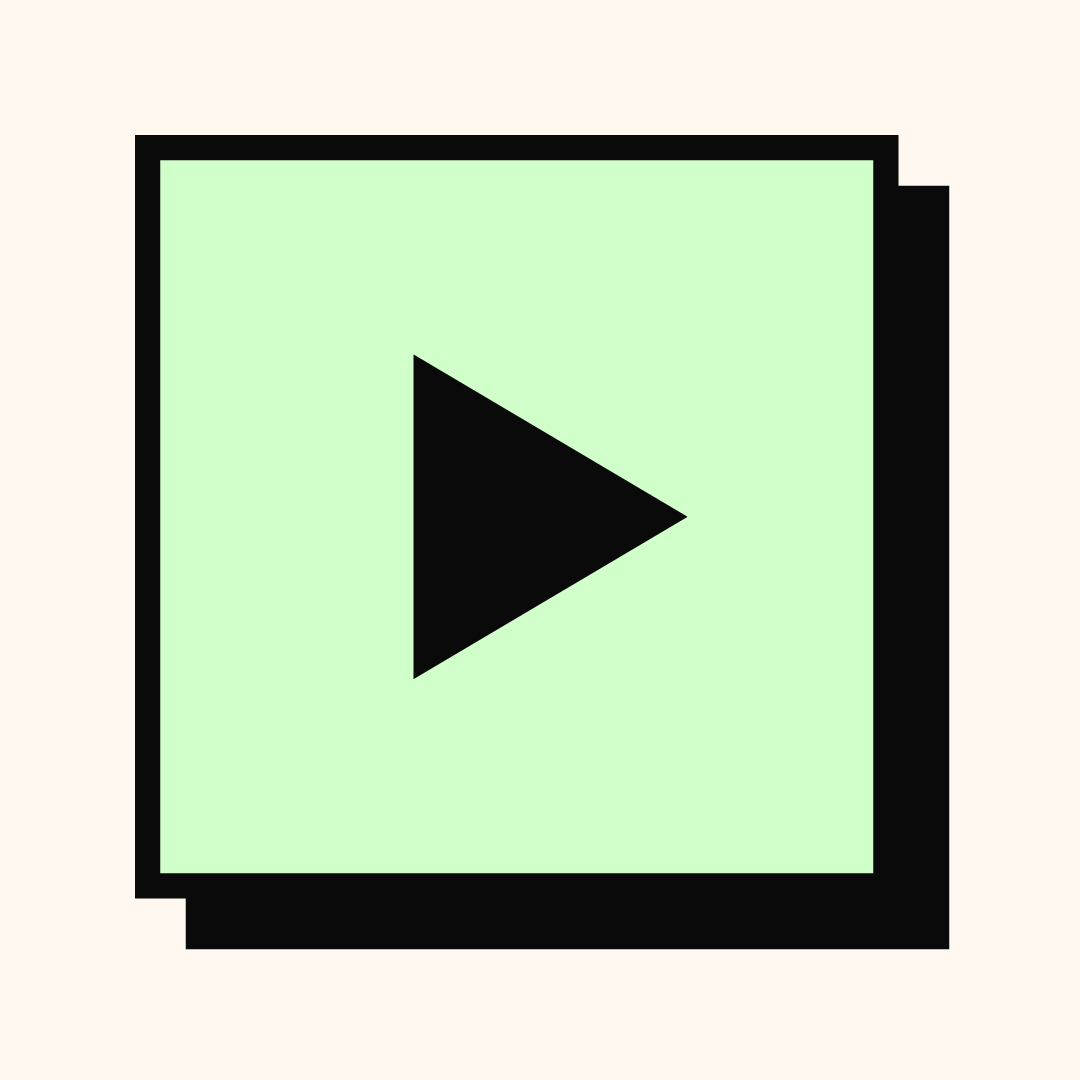
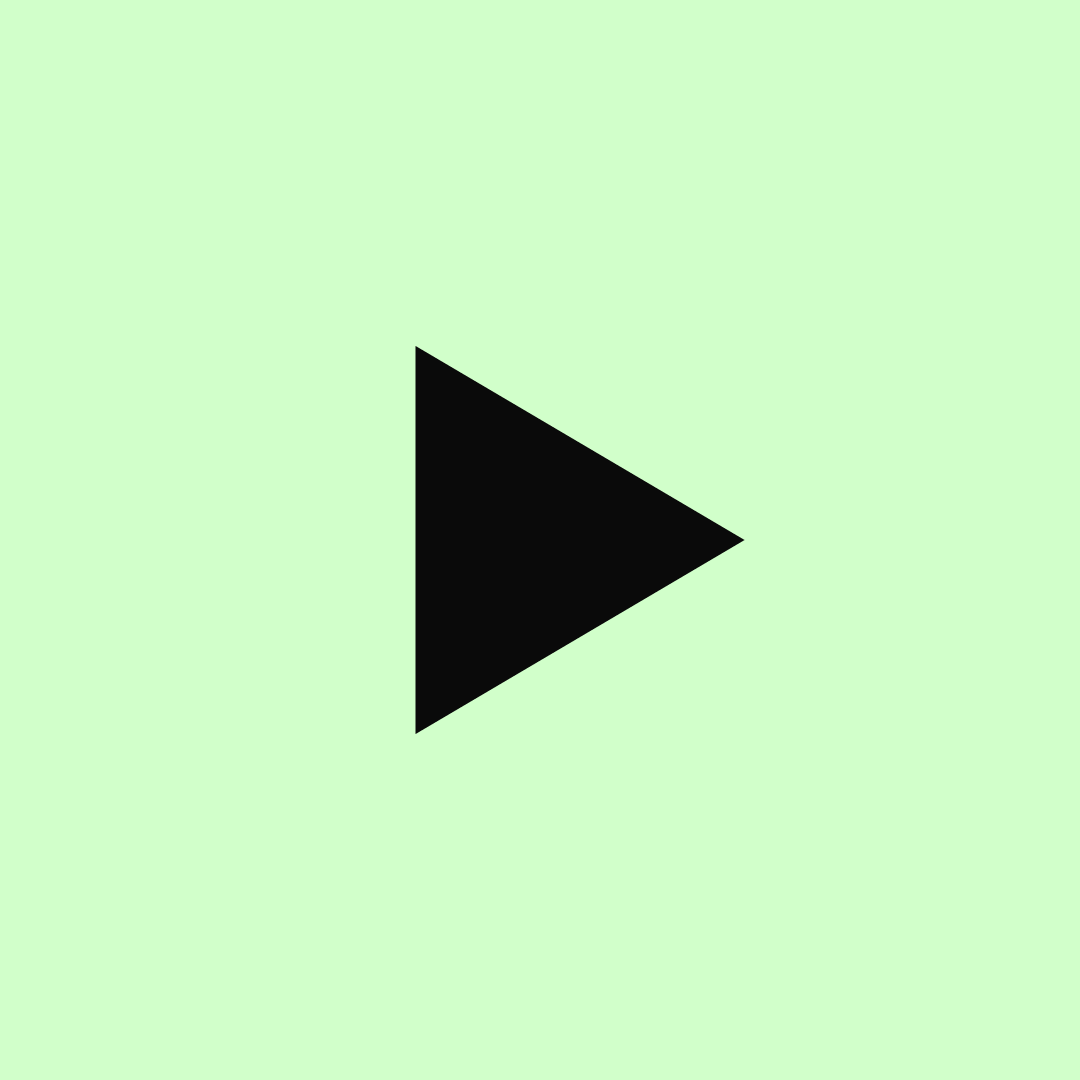
1

diff --git a/apps/video/src/compositions/LowerThird.tsx b/apps/video/src/compositions/LowerThird.tsx
@@ -1,17 +1,23 @@
 import { AbsoluteFill, interpolate, useCurrentFrame, useVideoConfig } from 'remotion'
 
-import { color, ease, font } from '../brand'
+import { color, ease, font, rose, roseDark } from '../brand'
 import { Background, type BackgroundKind } from '../components/Background'
 import { Card } from '../components/Card'
 
 export type LowerThirdProps = {
   title: string
   subtitle: string
-  fill: 'mint' | 'rest' | 'sheet'
+  fill: 'mint' | 'rest' | 'sheet' | 'rose'
   background: BackgroundKind
 }
 
 const clamp = { extrapolateLeft: 'clamp', extrapolateRight: 'clamp' } as const
+
+// Розовая плашка — акцент тёмной розовой темы приложения; на нём читается только тёмный текст
+const palette = (fill: LowerThirdProps['fill']) =>
+  fill === 'rose'
+    ? { fill: roseDark.blue, text: rose.ink, ink: rose.ink }
+    : { fill: color[fill], text: color.ink, ink: color.ink }
 
 // Плашка поверх своего видео. Низ кадра ~250px перекрывает интерфейс Instagram — стоим выше
 export const LowerThird = ({ title, subtitle, fill, background }: LowerThirdProps) => {
@@ -22,17 +28,19 @@ export const LowerThird = ({ title, subtitle, fill, background }: LowerThirdProp
   const sub = interpolate(frame, [6, 20], [0, 1], { easing: ease.enter, ...clamp })
   const exit = interpolate(frame, [durationInFrames - 12, durationInFrames], [0, 1], { easing: ease.exit, ...clamp })
   const x = (p: number) => `${(p - 1) * 120}% 0`
+  const tone = palette(fill)
 
   return (
-    <AbsoluteFill>
+    <AbsoluteFill from={-26}>
       <Background kind={background} />
       <div style={{ position: 'absolute', left: width * 0.06, bottom: height * 0.22, maxWidth: width * 0.82 }}>
         <div style={{ translate: x(enter - exit) }}>
           <Card
-            fill={color[fill]}
+            fill={tone.fill}
+            ink={tone.ink}
             style={{ padding: `${width * 0.026}px ${width * 0.034}px` }}
           >
-            <div style={{ fontFamily: font.sans, fontWeight: 600, fontSize: width * 0.05, lineHeight: 1.15, color: color.ink }}>
+            <div style={{ fontFamily: font.sans, fontWeight: 600, fontSize: width * 0.05, lineHeight: 1.15, color: tone.text }}>
               {title}
             </div>
             {subtitle && (
@@ -42,7 +50,7 @@ export const LowerThird = ({ title, subtitle, fill, background }: LowerThirdProp
                   fontSize: width * 0.034,
                   lineHeight: 1.3,
                   marginTop: width * 0.01,
-                  color: color.ink,
+                  color: tone.text,
                   opacity: 0.7 * sub,
                 }}
               >

diff --git a/apps/video/src/Root.tsx b/apps/video/src/Root.tsx
@@ -1,4 +1,4 @@
-import { Composition } from 'remotion'
+import { type CalculateMetadataFunction, Composition } from 'remotion'
 
 import { formats } from './brand'
 import './fonts'
@@ -7,6 +7,14 @@ import { LowerThird, type LowerThirdProps } from './compositions/LowerThird'
 import { NumberCard, type NumberCardProps } from './compositions/NumberCard'
 
 const { reels, post, square } = formats
+
+// Оверлей: кнопка Render в Studio сразу предлагает ProRes 4444 с альфой, а не MP4 с чёрным фоном
+const overlay: CalculateMetadataFunction<LowerThirdProps> = async () => ({
+  defaultCodec: 'prores',
+  defaultProResProfile: '4444',
+  defaultPixelFormat: 'yuva444p10le',
+  defaultVideoImageFormat: 'png',
+})
 
 export const Root = () => (
   <>
@@ -47,11 +55,27 @@ export const Root = () => (
       component={LowerThird}
       durationInFrames={150}
       {...reels}
+      calculateMetadata={overlay}
       defaultProps={
         {
           title: 'Жим гантелей на наклонной',
           subtitle: '4 подхода × 10 повторов',
           fill: 'mint',
+          background: 'transparent',
+        } satisfies LowerThirdProps
+      }
+    />
+    <Composition
+      id='LowerThird-Rose-Reels'
+      component={LowerThird}
+      durationInFrames={150}
+      {...reels}
+      calculateMetadata={overlay}
+      defaultProps={
+        {
+          title: 'Жим гантелей на наклонной',
+          subtitle: '4 подхода × 10 повторов',
+          fill: 'rose',
           background: 'transparent',
         } satisfies LowerThirdProps
       }

diff --git a/apps/video/src/components/Card.tsx b/apps/video/src/components/Card.tsx
@@ -5,18 +5,20 @@ import { color, lift, line } from '../brand'
 type Props = {
   children: ReactNode
   fill?: string
+  /** Цвет обводки и тени; в розовой расцветке — её чернила */
+  ink?: string
   /** 0 — на месте, 1 — вдавлена в тень */
   press?: number
   style?: CSSProperties
 }
 
 // Плитка приложения: чёрная обводка и жёсткая тень вправо-вниз без размытия
-export const Card = ({ children, fill = color.mint, press = 0, style }: Props) => (
+export const Card = ({ children, fill = color.mint, ink = color.ink, press = 0, style }: Props) => (
   <div
     style={{
       background: fill,
-      border: `${line}px solid ${color.ink}`,
-      boxShadow: `${lift * (1 - press)}px ${lift * (1 - press)}px 0 ${color.ink}`,
+      border: `${line}px solid ${ink}`,
+      boxShadow: `${lift * (1 - press)}px ${lift * (1 - press)}px 0 ${ink}`,
       translate: `${lift * press}px ${lift * press}px`,
       ...style,
     }}

diff --git a/packages/brand/tokens.css b/packages/brand/tokens.css
@@ -10,6 +10,15 @@
   --brand-voltage: #fff100;
   --brand-rest: #ffdcae;
 
+  /* Розовая расцветка — как [data-palette='rose'] в приложении */
+  --brand-rose-paper: #fff5f8;
+  --brand-rose-sheet: #fffafc;
+  --brand-rose-ink: #1f0a14;
+  --brand-rose-blue: #d6246e;
+  --brand-rose-rule: #f3dbe5;
+  /* Розовая тёмная — акцент светлее, им красим плашки в видео */
+  --brand-rose-dark-blue: #ff6fa8;
+
   --brand-font-sans: 'Onest Variable', ui-sans-serif, system-ui, sans-serif;
   --brand-font-display: 'Oswald Variable', 'Arial Narrow', sans-serif;
   --brand-font-serif: 'Cormorant Variable', 'Times New Roman', serif;

diff --git a/apps/video/src/brand.ts b/apps/video/src/brand.ts
@@ -2,6 +2,9 @@ import tokens from '@sportbot/brand/tokens.json'
 import { Easing } from 'remotion'
 
 export const color = { ...tokens.color.light, ...tokens.color.accent }
+// Розовая расцветка приложения: blue здесь малиновый «голос палитры»
+export const rose = tokens.color.rose
+export const roseDark = tokens.color.roseDark
 export const font = {
   display: `'Oswald Variable', 'Arial Narrow', sans-serif`,
   sans: `'Onest Variable', system-ui, sans-serif`,

diff --git a/packages/brand/BRAND.md b/packages/brand/BRAND.md
@@ -41,6 +41,8 @@
 - Акцент — `blue` `#006eff`. Один на кадр: не спорит с другими яркими.
 - Состояния тренировки: работа — `mint` `#d1ffca`, отдых — `rest` `#ffdcae`. Текст на них всегда чёрный.
 - `voltage` `#fff100` — редкий сигнал (рекорд, внимание), не фон.
+- Розовая расцветка (`rose`, как `[data-palette='rose']` в приложении): голос `blue` `#d6246e` вместо синего, фон `paper` `#fff5f8`, текст `ink` `#1f0a14`. Синий и малиновый в одном кадре не смешиваем.
+- Тёмная розовая (`roseDark`): акцент `#ff6fa8`. Текст на нём тёмный `#1f0a14` — светлый не читается.
 
 ## Шрифты
 
@@ -54,6 +56,7 @@
 
 - `logo/icon.svg` — основной, на кремовом фоне.
 - `logo/icon-transparent.svg` — без фона, для оверлеев в видео.
+- `logo/avatar.svg` — аватарка соцсетей: плитка на весь кадр, треугольник по центру. Telegram и Instagram режут в круг и не держат прозрачность, поэтому без кремового поля и тени.
 - PNG — `yarn workspace @sportbot/brand export` кладёт в `export/`: 1024, аватарка 1080, apple-touch 180, favicon 32/16, прозрачный 1024.
 - Не менять: цвет плитки, направление тени, отсутствие скруглений. Тень не размывать.
 - Из выбора знака: любим язык приложения (обводка, жёсткая тень) и предметные символы; избегаем лица бота, абстрактных графиков, буквенных монограмм, жёлтого фона и толстых мультяшных пиктограмм без обводки — «карикатурно».
